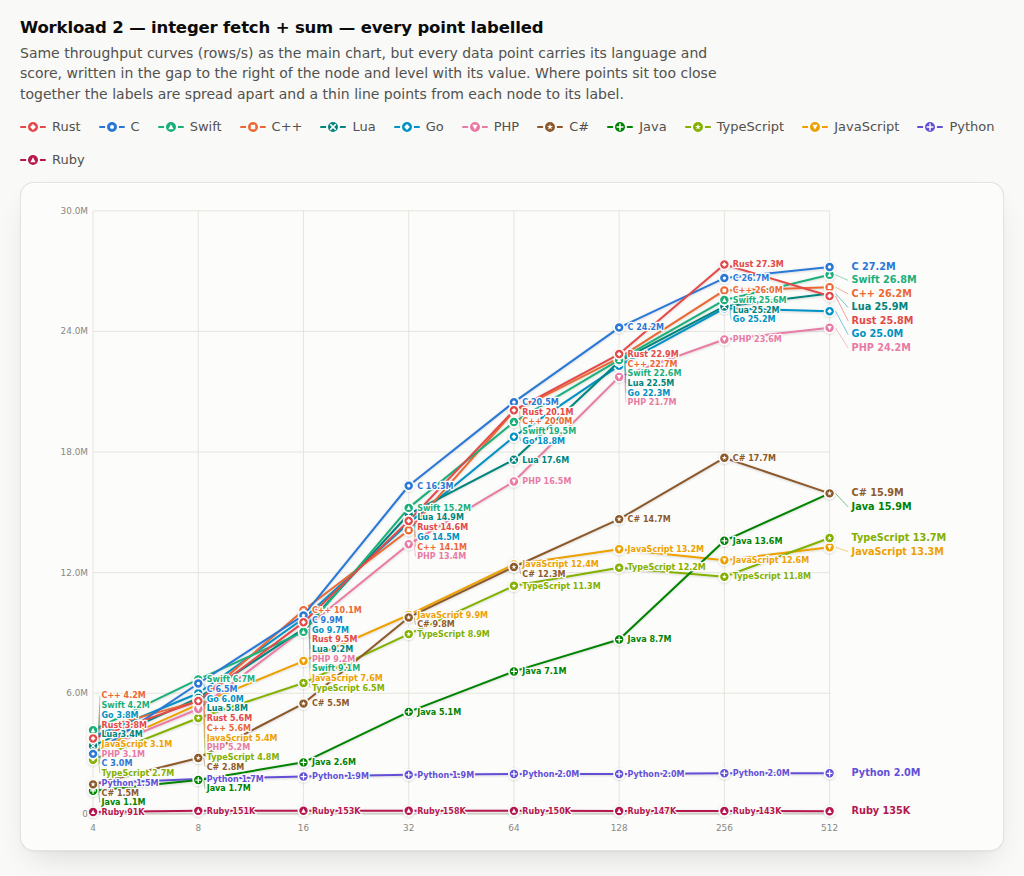
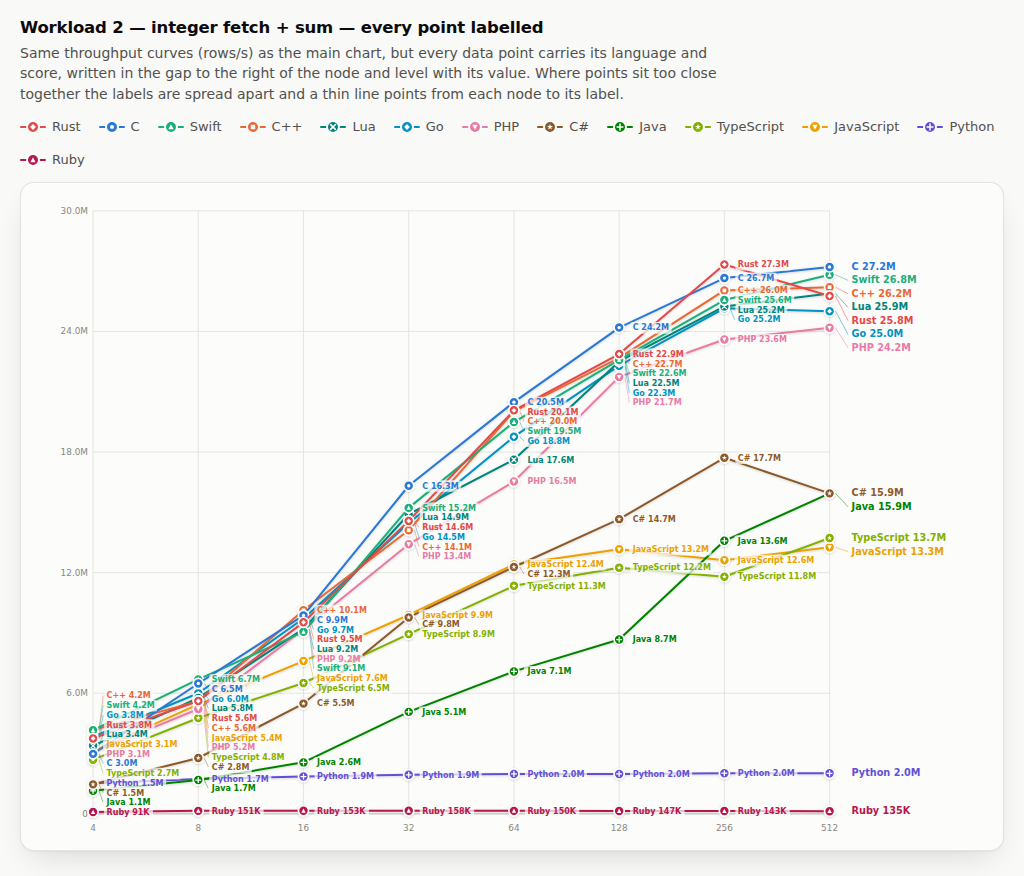
report: offset node annotations and give them a translucent backing
On the annotated charts, start each label 16px right of the node (a clear gap
past the 6px marker) and draw a rounded, 72%-opaque surface-coloured plate
behind each label, sized from the rendered text via getBBox after the SVG is
mounted. Replaces the text halo stroke: curves passing behind a label are now
dimmed rather than cutting through the glyphs.

diff --git a/report/annotated.html b/report/annotated.html
@@ -61,8 +61,7 @@
   svg .grouplabel { fill: var(--text-secondary); font-weight: 700; font-size: 11.5px; }
   svg .barval { fill: var(--muted); font-size: 9.5px; }
   svg .barvalin { fill: #ffffff; font-size: 9.5px; font-weight: 600; }
-  svg .nodelabel { font-size: 9.5px; font-weight: 650; paint-order: stroke; stroke: var(--surface-1);
-    stroke-width: 3px; stroke-linejoin: round; }
+  svg .nodelabel { font-size: 9.5px; font-weight: 650; }
   #tooltip { position: fixed; pointer-events: none; z-index: 10; display: none;
     background: var(--surface-1); border: 1px solid var(--border); border-radius: 8px;
     box-shadow: 0 4px 14px rgba(0,0,0,0.18); padding: 8px 11px; font-size: 12.5px; min-width: 150px; }
@@ -251,6 +250,7 @@ const PAGE_BARS = false;
   function bigChart(cfg) {
     const T = cfg.T, N = T.length;
     const FY = cfg.fmtY || fmt;   // y-axis + end-label number format
+    const nodeLabelEls = [];      // per-node annotation texts (get backing plates after mount)
     const BW = 1120, BH = cfg.height || 540, BM = { l: 64, r: 184, t: 14, b: 32 };
     const BIW = BW-BM.l-BM.r, BIH = BH-BM.t-BM.b;
     const X = i => BM.l + i*BIW/(N-1);
@@ -308,16 +308,18 @@ const PAGE_BARS = false;
         const topOver = items.length ? (BM.t + 5) - items[0].y : 0;
         if (topOver > 0) { items[0].y += topOver;
           for (let k = 1; k < items.length; k++) if (items[k].y - items[k-1].y < GAPN) items[k].y = items[k-1].y + GAPN; }
-        const lx = X(i) + 10;
+        // Label text starts a clear gap past the node (marker radius 6 + 10px).
+        const lx = X(i) + 16;
         for (const L of items) {
           if (Math.abs(L.y - L.y0) > 2.5) {
-            const ldr = el("line", { x1: X(i)+6.5, y1: L.y0, x2: lx-2, y2: L.y, "stroke-width": 0.9, "stroke-opacity": "0.6" });
+            const ldr = el("line", { x1: X(i)+7, y1: L.y0, x2: lx-4, y2: L.y, "stroke-width": 0.9, "stroke-opacity": "0.6" });
             ldr.style.stroke = L.d.st.color; svg.appendChild(ldr);
           }
           const t = el("text", { x: lx, y: L.y + 3.3, class: "nodelabel" });
           t.style.fill = L.d.st.color;
           t.textContent = L.d.name + " " + FY(L.d.vals[i]);
           svg.appendChild(t);
+          nodeLabelEls.push(t);
         }
       }
     }
@@ -369,6 +371,14 @@ const PAGE_BARS = false;
         const i = Math.min(N-1, Math.max(0, idx + (ev.key==="ArrowRight"?1:-1))); const r = svg.getBoundingClientRect();
         show(i, r.left+(X(i)*r.width/BW), r.top+r.height/3); } else if (ev.key==="Escape") hide(); });
     const host = document.getElementById(cfg.hostId); if (host) host.appendChild(svg);
+    // Semi-transparent backing plate behind each node label, sized from the
+    // rendered text (getBBox needs the SVG in the document, hence after append).
+    for (const t of nodeLabelEls) {
+      const b = t.getBBox();
+      const bg = el("rect", { x: b.x-3, y: b.y-1.5, width: b.width+6, height: b.height+3, rx: 3, ry: 3,
+                              fill: "var(--surface-1)", "fill-opacity": "0.72" });
+      svg.insertBefore(bg, t);
+    }
   }
 
   // --- Shared tooltip helpers for the per-mark bar hover layer. ---

diff --git a/report/report.html b/report/report.html
@@ -61,8 +61,7 @@
   svg .grouplabel { fill: var(--text-secondary); font-weight: 700; font-size: 11.5px; }
   svg .barval { fill: var(--muted); font-size: 9.5px; }
   svg .barvalin { fill: #ffffff; font-size: 9.5px; font-weight: 600; }
-  svg .nodelabel { font-size: 9.5px; font-weight: 650; paint-order: stroke; stroke: var(--surface-1);
-    stroke-width: 3px; stroke-linejoin: round; }
+  svg .nodelabel { font-size: 9.5px; font-weight: 650; }
   #tooltip { position: fixed; pointer-events: none; z-index: 10; display: none;
     background: var(--surface-1); border: 1px solid var(--border); border-radius: 8px;
     box-shadow: 0 4px 14px rgba(0,0,0,0.18); padding: 8px 11px; font-size: 12.5px; min-width: 150px; }
@@ -331,6 +330,7 @@ const PAGE_BARS = false;
   function bigChart(cfg) {
     const T = cfg.T, N = T.length;
     const FY = cfg.fmtY || fmt;   // y-axis + end-label number format
+    const nodeLabelEls = [];      // per-node annotation texts (get backing plates after mount)
     const BW = 1120, BH = cfg.height || 540, BM = { l: 64, r: 184, t: 14, b: 32 };
     const BIW = BW-BM.l-BM.r, BIH = BH-BM.t-BM.b;
     const X = i => BM.l + i*BIW/(N-1);
@@ -388,16 +388,18 @@ const PAGE_BARS = false;
         const topOver = items.length ? (BM.t + 5) - items[0].y : 0;
         if (topOver > 0) { items[0].y += topOver;
           for (let k = 1; k < items.length; k++) if (items[k].y - items[k-1].y < GAPN) items[k].y = items[k-1].y + GAPN; }
-        const lx = X(i) + 10;
+        // Label text starts a clear gap past the node (marker radius 6 + 10px).
+        const lx = X(i) + 16;
         for (const L of items) {
           if (Math.abs(L.y - L.y0) > 2.5) {
-            const ldr = el("line", { x1: X(i)+6.5, y1: L.y0, x2: lx-2, y2: L.y, "stroke-width": 0.9, "stroke-opacity": "0.6" });
+            const ldr = el("line", { x1: X(i)+7, y1: L.y0, x2: lx-4, y2: L.y, "stroke-width": 0.9, "stroke-opacity": "0.6" });
             ldr.style.stroke = L.d.st.color; svg.appendChild(ldr);
           }
           const t = el("text", { x: lx, y: L.y + 3.3, class: "nodelabel" });
           t.style.fill = L.d.st.color;
           t.textContent = L.d.name + " " + FY(L.d.vals[i]);
           svg.appendChild(t);
+          nodeLabelEls.push(t);
         }
       }
     }
@@ -449,6 +451,14 @@ const PAGE_BARS = false;
         const i = Math.min(N-1, Math.max(0, idx + (ev.key==="ArrowRight"?1:-1))); const r = svg.getBoundingClientRect();
         show(i, r.left+(X(i)*r.width/BW), r.top+r.height/3); } else if (ev.key==="Escape") hide(); });
     const host = document.getElementById(cfg.hostId); if (host) host.appendChild(svg);
+    // Semi-transparent backing plate behind each node label, sized from the
+    // rendered text (getBBox needs the SVG in the document, hence after append).
+    for (const t of nodeLabelEls) {
+      const b = t.getBBox();
+      const bg = el("rect", { x: b.x-3, y: b.y-1.5, width: b.width+6, height: b.height+3, rx: 3, ry: 3,
+                              fill: "var(--surface-1)", "fill-opacity": "0.72" });
+      svg.insertBefore(bg, t);
+    }
   }
 
   // --- Shared tooltip helpers for the per-mark bar hover layer. ---

diff --git a/report/bars.html b/report/bars.html
@@ -61,8 +61,7 @@
   svg .grouplabel { fill: var(--text-secondary); font-weight: 700; font-size: 11.5px; }
   svg .barval { fill: var(--muted); font-size: 9.5px; }
   svg .barvalin { fill: #ffffff; font-size: 9.5px; font-weight: 600; }
-  svg .nodelabel { font-size: 9.5px; font-weight: 650; paint-order: stroke; stroke: var(--surface-1);
-    stroke-width: 3px; stroke-linejoin: round; }
+  svg .nodelabel { font-size: 9.5px; font-weight: 650; }
   #tooltip { position: fixed; pointer-events: none; z-index: 10; display: none;
     background: var(--surface-1); border: 1px solid var(--border); border-radius: 8px;
     box-shadow: 0 4px 14px rgba(0,0,0,0.18); padding: 8px 11px; font-size: 12.5px; min-width: 150px; }
@@ -251,6 +250,7 @@ const PAGE_BARS = true;
   function bigChart(cfg) {
     const T = cfg.T, N = T.length;
     const FY = cfg.fmtY || fmt;   // y-axis + end-label number format
+    const nodeLabelEls = [];      // per-node annotation texts (get backing plates after mount)
     const BW = 1120, BH = cfg.height || 540, BM = { l: 64, r: 184, t: 14, b: 32 };
     const BIW = BW-BM.l-BM.r, BIH = BH-BM.t-BM.b;
     const X = i => BM.l + i*BIW/(N-1);
@@ -308,16 +308,18 @@ const PAGE_BARS = true;
         const topOver = items.length ? (BM.t + 5) - items[0].y : 0;
         if (topOver > 0) { items[0].y += topOver;
           for (let k = 1; k < items.length; k++) if (items[k].y - items[k-1].y < GAPN) items[k].y = items[k-1].y + GAPN; }
-        const lx = X(i) + 10;
+        // Label text starts a clear gap past the node (marker radius 6 + 10px).
+        const lx = X(i) + 16;
         for (const L of items) {
           if (Math.abs(L.y - L.y0) > 2.5) {
-            const ldr = el("line", { x1: X(i)+6.5, y1: L.y0, x2: lx-2, y2: L.y, "stroke-width": 0.9, "stroke-opacity": "0.6" });
+            const ldr = el("line", { x1: X(i)+7, y1: L.y0, x2: lx-4, y2: L.y, "stroke-width": 0.9, "stroke-opacity": "0.6" });
             ldr.style.stroke = L.d.st.color; svg.appendChild(ldr);
           }
           const t = el("text", { x: lx, y: L.y + 3.3, class: "nodelabel" });
           t.style.fill = L.d.st.color;
           t.textContent = L.d.name + " " + FY(L.d.vals[i]);
           svg.appendChild(t);
+          nodeLabelEls.push(t);
         }
       }
     }
@@ -369,6 +371,14 @@ const PAGE_BARS = true;
         const i = Math.min(N-1, Math.max(0, idx + (ev.key==="ArrowRight"?1:-1))); const r = svg.getBoundingClientRect();
         show(i, r.left+(X(i)*r.width/BW), r.top+r.height/3); } else if (ev.key==="Escape") hide(); });
     const host = document.getElementById(cfg.hostId); if (host) host.appendChild(svg);
+    // Semi-transparent backing plate behind each node label, sized from the
+    // rendered text (getBBox needs the SVG in the document, hence after append).
+    for (const t of nodeLabelEls) {
+      const b = t.getBBox();
+      const bg = el("rect", { x: b.x-3, y: b.y-1.5, width: b.width+6, height: b.height+3, rx: 3, ry: 3,
+                              fill: "var(--surface-1)", "fill-opacity": "0.72" });
+      svg.insertBefore(bg, t);
+    }
   }
 
   // --- Shared tooltip helpers for the per-mark bar hover layer. ---

diff --git a/report/generate_html_report.py b/report/generate_html_report.py
@@ -507,8 +507,7 @@ HTML_TEMPLATE = r"""<!DOCTYPE html>
   svg .grouplabel { fill: var(--text-secondary); font-weight: 700; font-size: 11.5px; }
   svg .barval { fill: var(--muted); font-size: 9.5px; }
   svg .barvalin { fill: #ffffff; font-size: 9.5px; font-weight: 600; }
-  svg .nodelabel { font-size: 9.5px; font-weight: 650; paint-order: stroke; stroke: var(--surface-1);
-    stroke-width: 3px; stroke-linejoin: round; }
+  svg .nodelabel { font-size: 9.5px; font-weight: 650; }
   #tooltip { position: fixed; pointer-events: none; z-index: 10; display: none;
     background: var(--surface-1); border: 1px solid var(--border); border-radius: 8px;
     box-shadow: 0 4px 14px rgba(0,0,0,0.18); padding: 8px 11px; font-size: 12.5px; min-width: 150px; }
@@ -673,6 +672,7 @@ const PAGE_BARS = __PAGE_BARS__;
   function bigChart(cfg) {
     const T = cfg.T, N = T.length;
     const FY = cfg.fmtY || fmt;   // y-axis + end-label number format
+    const nodeLabelEls = [];      // per-node annotation texts (get backing plates after mount)
     const BW = 1120, BH = cfg.height || 540, BM = { l: 64, r: 184, t: 14, b: 32 };
     const BIW = BW-BM.l-BM.r, BIH = BH-BM.t-BM.b;
     const X = i => BM.l + i*BIW/(N-1);
@@ -730,16 +730,18 @@ const PAGE_BARS = __PAGE_BARS__;
         const topOver = items.length ? (BM.t + 5) - items[0].y : 0;
         if (topOver > 0) { items[0].y += topOver;
           for (let k = 1; k < items.length; k++) if (items[k].y - items[k-1].y < GAPN) items[k].y = items[k-1].y + GAPN; }
-        const lx = X(i) + 10;
+        // Label text starts a clear gap past the node (marker radius 6 + 10px).
+        const lx = X(i) + 16;
         for (const L of items) {
           if (Math.abs(L.y - L.y0) > 2.5) {
-            const ldr = el("line", { x1: X(i)+6.5, y1: L.y0, x2: lx-2, y2: L.y, "stroke-width": 0.9, "stroke-opacity": "0.6" });
+            const ldr = el("line", { x1: X(i)+7, y1: L.y0, x2: lx-4, y2: L.y, "stroke-width": 0.9, "stroke-opacity": "0.6" });
             ldr.style.stroke = L.d.st.color; svg.appendChild(ldr);
           }
           const t = el("text", { x: lx, y: L.y + 3.3, class: "nodelabel" });
           t.style.fill = L.d.st.color;
           t.textContent = L.d.name + " " + FY(L.d.vals[i]);
           svg.appendChild(t);
+          nodeLabelEls.push(t);
         }
       }
     }
@@ -791,6 +793,14 @@ const PAGE_BARS = __PAGE_BARS__;
         const i = Math.min(N-1, Math.max(0, idx + (ev.key==="ArrowRight"?1:-1))); const r = svg.getBoundingClientRect();
         show(i, r.left+(X(i)*r.width/BW), r.top+r.height/3); } else if (ev.key==="Escape") hide(); });
     const host = document.getElementById(cfg.hostId); if (host) host.appendChild(svg);
+    // Semi-transparent backing plate behind each node label, sized from the
+    // rendered text (getBBox needs the SVG in the document, hence after append).
+    for (const t of nodeLabelEls) {
+      const b = t.getBBox();
+      const bg = el("rect", { x: b.x-3, y: b.y-1.5, width: b.width+6, height: b.height+3, rx: 3, ry: 3,
+                              fill: "var(--surface-1)", "fill-opacity": "0.72" });
+      svg.insertBefore(bg, t);
+    }
   }
 
   // --- Shared tooltip helpers for the per-mark bar hover layer. ---
